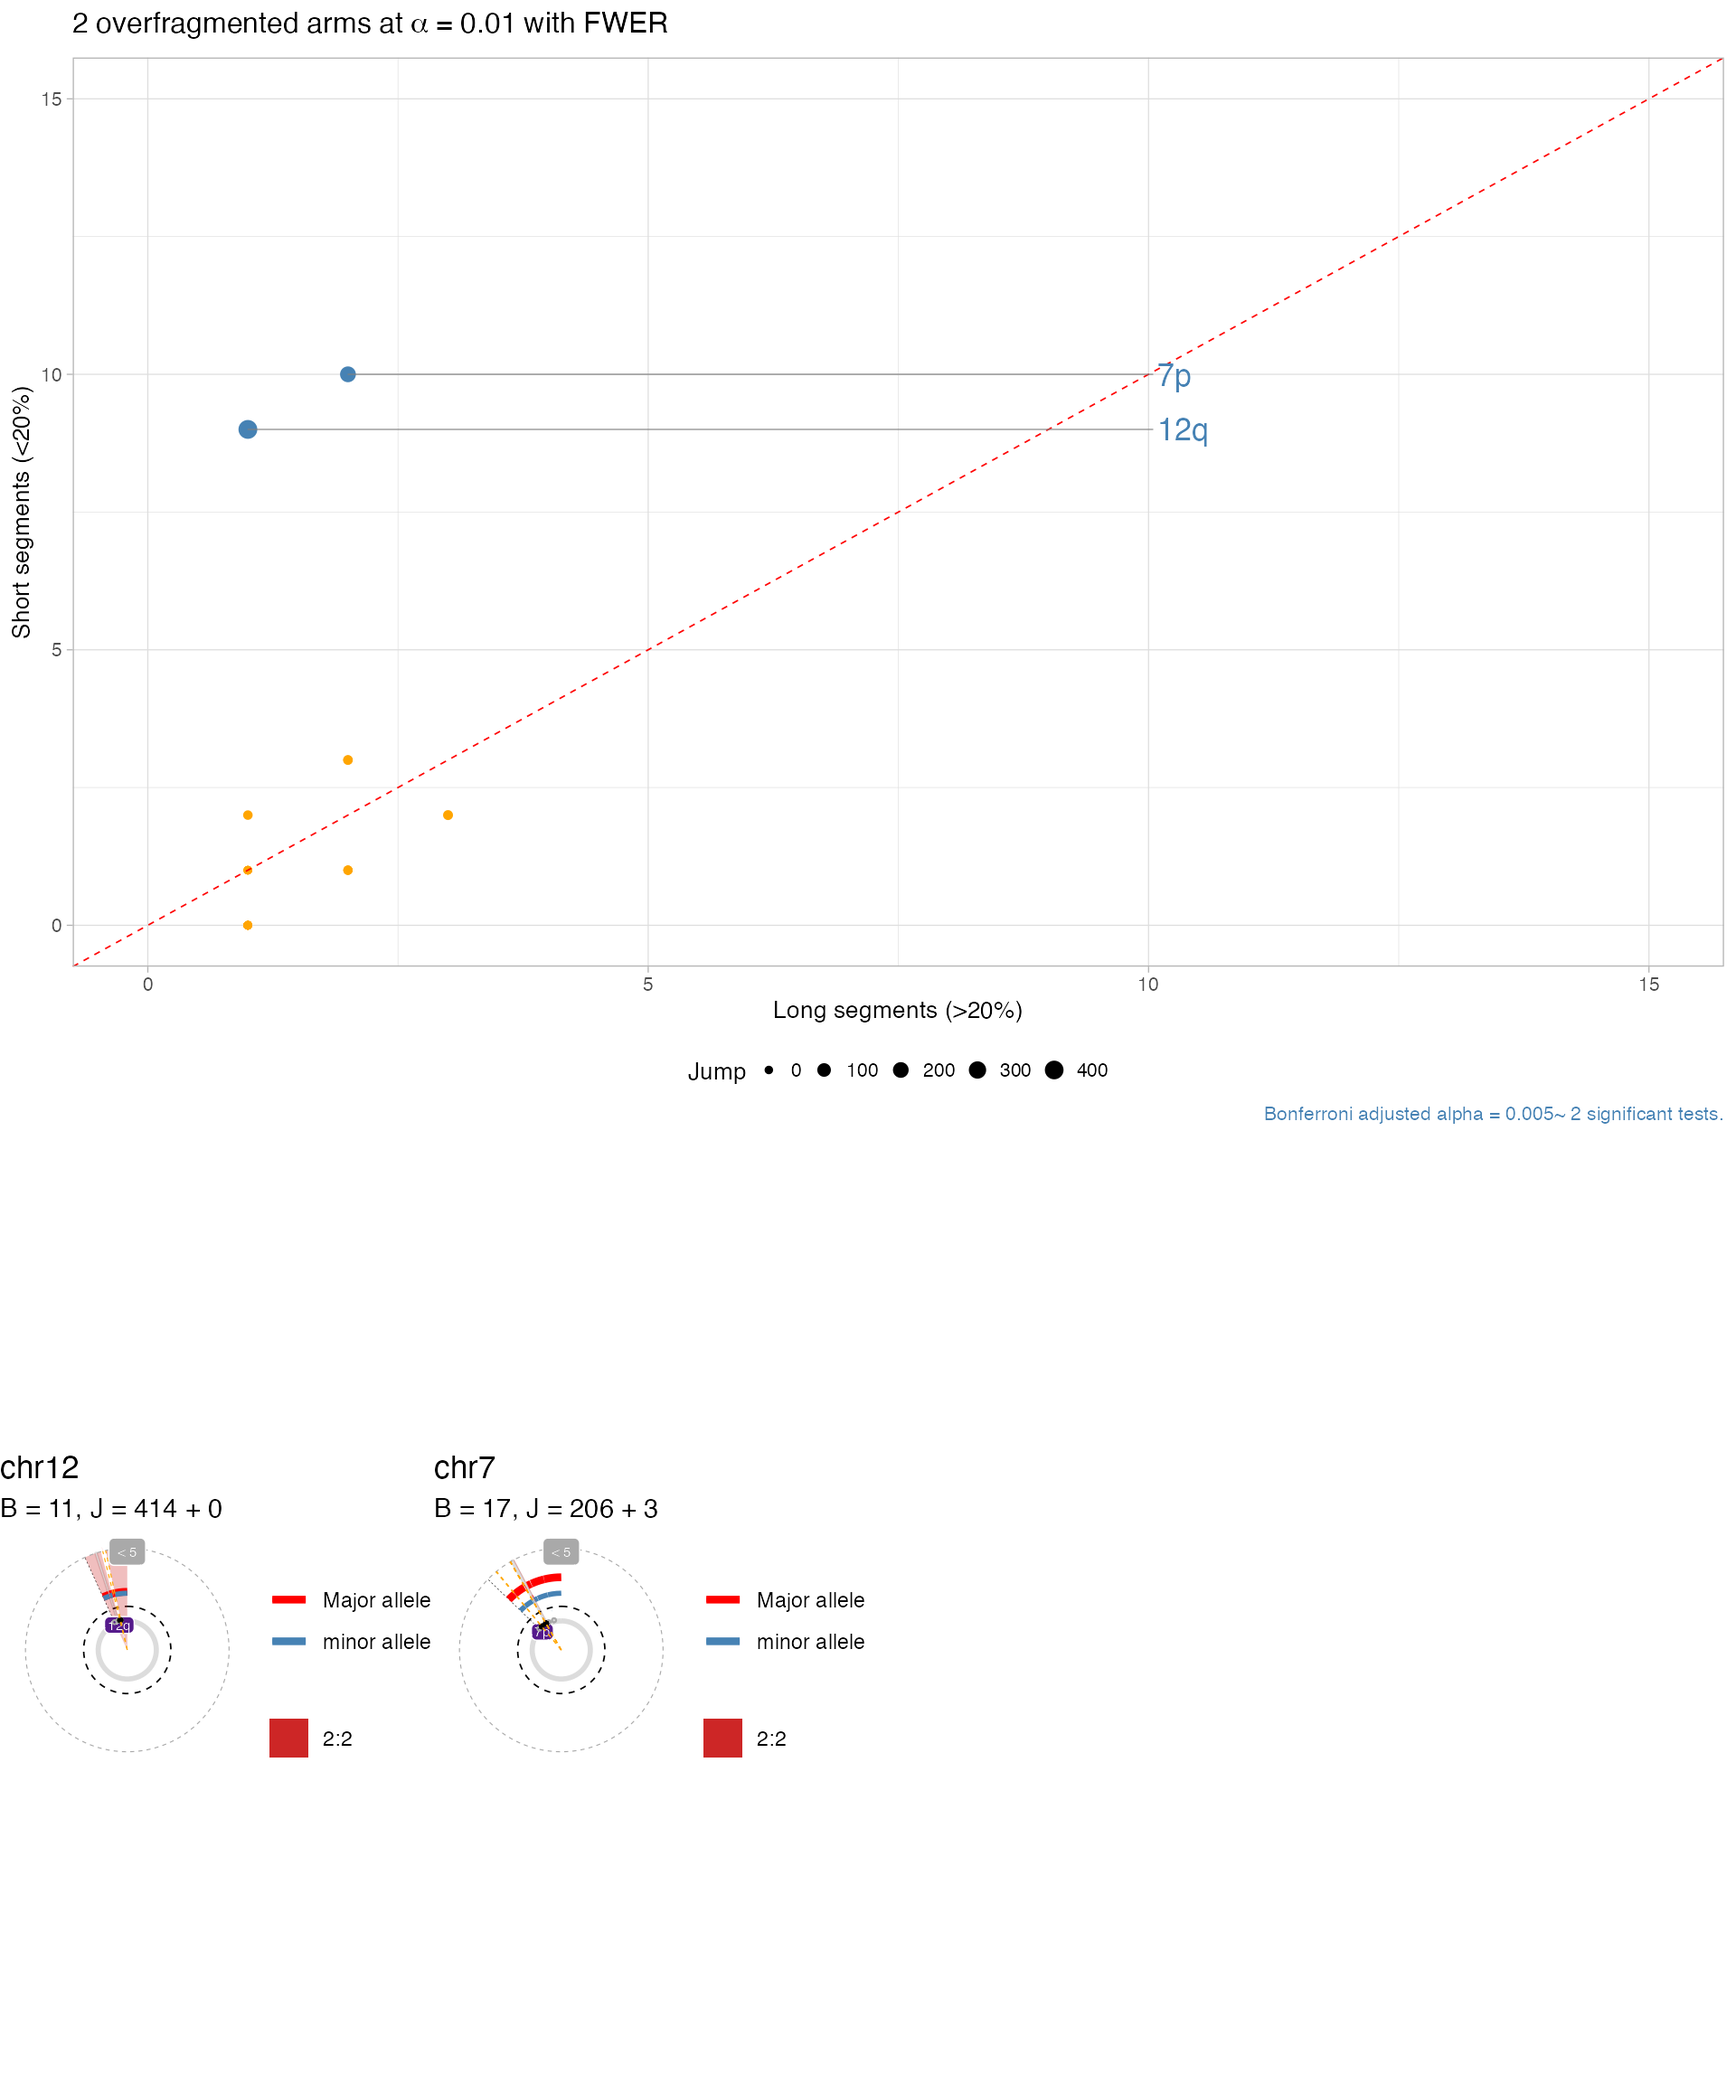
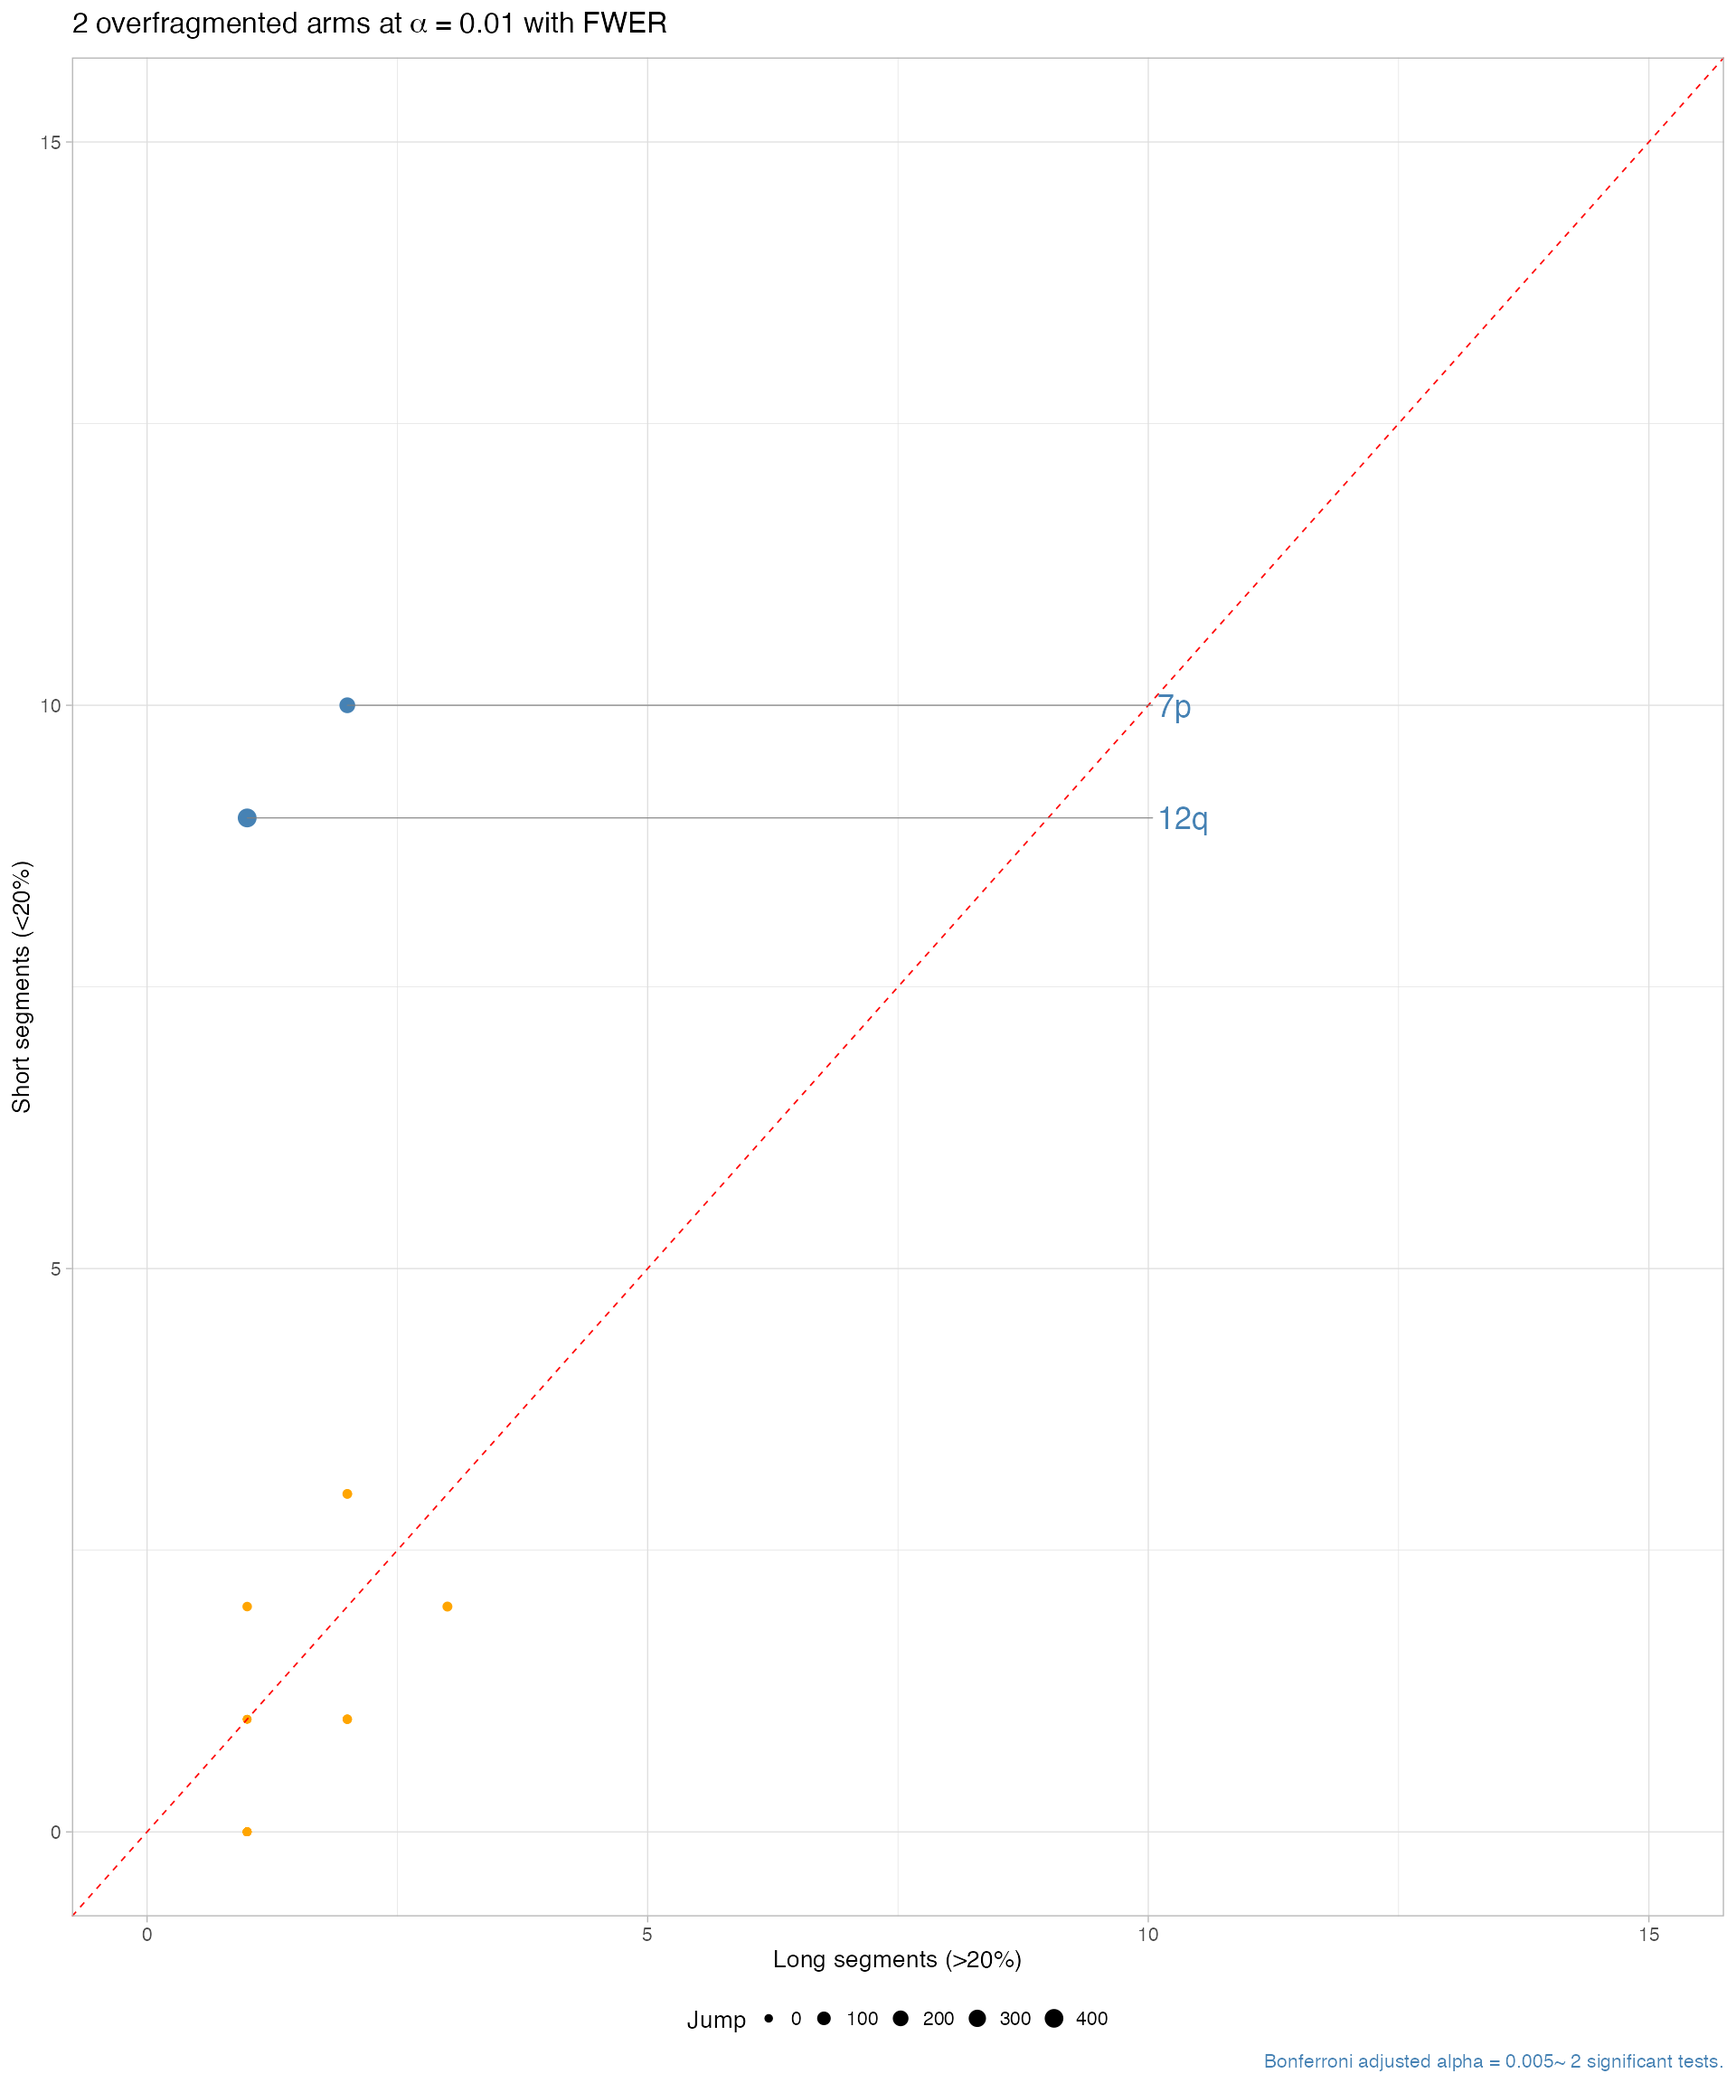
www update

diff --git a/docs/articles/a6_fragmentation.html b/docs/articles/a6_fragmentation.html
@@ -117,7 +117,6 @@
     
 <div class="sourceCode" id="cb1"><pre class="downlit sourceCode r">
 <code class="sourceCode R"><span class="kw"><a href="https://rdrr.io/r/base/library.html">library</a></span><span class="op">(</span><span class="va"><a href="https://github.com/caravagn/CNAqc">CNAqc</a></span><span class="op">)</span>
-<span class="co">#&gt; ✓ Loading BMix, 'Binomial and Beta-Binomial univariate mixtures'. Support : &lt;https://caravagn.github.io/BMix/&gt;</span>
 <span class="co">#&gt; ✓ Loading CNAqc, 'Copy Number Alteration quality check'. Support : &lt;https://caravagn.github.io/CNAqc/&gt;</span></code></pre></div>
 <p>We work with the template dataset.</p>
 <pre><code>#&gt;  [ CNAqc - CNA Quality Check ]
@@ -261,7 +260,7 @@
 <span class="co">#&gt; ✓ These segments are smoothed; before smoothing there were 267 segments.</span>
 <span class="co">#&gt; ✓ Arm-level fragmentation analysis: 2 segments overfragmented.</span></code></pre></div>
 <div class="sourceCode" id="cb8"><pre class="downlit sourceCode r">
-<code class="sourceCode R"><span class="fu"><a href="../reference/plot_arm_fragmentation.html">plot_arm_fragmentation</a></span><span class="op">(</span><span class="va">x</span>, zoom <span class="op">=</span> <span class="fl">6</span><span class="op">)</span></code></pre></div>
+<code class="sourceCode R"><span class="fu"><a href="../reference/plot_arm_fragmentation.html">plot_arm_fragmentation</a></span><span class="op">(</span><span class="va">x</span>, zoom <span class="op">=</span> <span class="fl">0</span><span class="op">)</span></code></pre></div>
 <p><img src="a6_fragmentation_files/figure-html/unnamed-chunk-8-1.png" width="960"></p>
 </div>
   </div>
